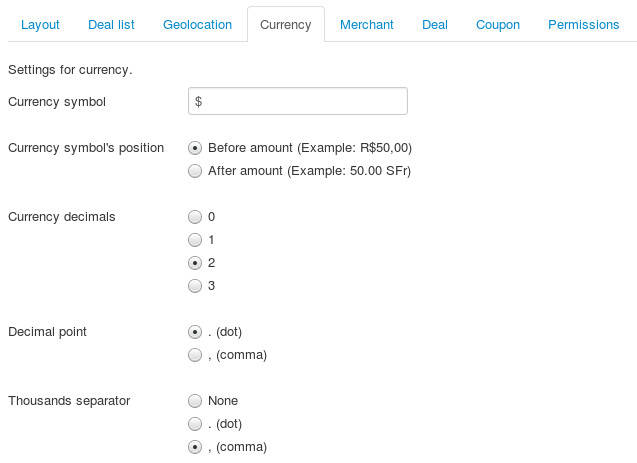
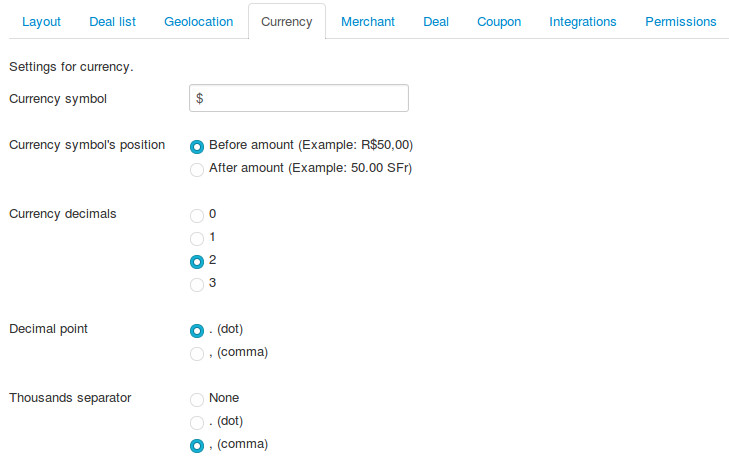
1.9.0

diff --git a/conf.py b/conf.py
@@ -51,10 +51,10 @@ copyright = u'2014-2015, CMExtension'
 # built documents.
 #
 # The short X.Y version.
-version = '1.8.1'
+version = '1.9.0'
 # The full version, including alpha/beta/rc tags.
-release = '1.8.1-stable'
-7
+release = '1.9.0-stable'
+
 # The language for content autogenerated by Sphinx. Refer to documentation
 # for a list of supported languages.
 #language = None

diff --git a/pages/configuration.rst b/pages/configuration.rst
@@ -69,7 +69,7 @@ The dashboard is displayed by default.
 
 On the toolbar there is a button "Options", you click this button to configure the component.
 
-On the configuration page, the settings are grouped into 7 tabs: Layout, Deal list, Currency Merchant, Deal, Coupon and Permissions.
+On the configuration page, the settings are grouped into 8 tabs: Layout, Deal list, Currency Merchant, Deal, Coupon, Integrations and Permissions.
 
 Layout
 ^^^^^^
@@ -98,6 +98,8 @@ Deal list
 * **Show price tag**: Show price tag at the top left corner of every deal in deal list. This price tag contains discounted price, discounted value or discount percent.
 * **Show original and discounted prices**: Show original price and discounted price of deal of it has these prices.
 * **Price tag of deals which have discounted price**: If deal has original price and discounted price, you show discounted price or discount value (how much customers save). For example, if orginal price is $100, discounted price is $40, you can show $40 (discounted price) or $60 (discount value).
+* **Show featured deals first**: Show featured deals on the top of deal list.
+* **Show ribbon for featured deals**: Show a ribbon on the top right corner of feature deals.
 
 Geolocation
 ^^^^^^^^^^^
@@ -186,6 +188,13 @@ Coupon
 * **Guest can get coupon**: Allow guests can capture coupons without registering accounts.
 * **Limit coupon quantity**: Enable this option to give administrators and merchants ability to set and change coupon quantity for every deal. If this option is disabled, coupon quantity is unlimited.
 * **Limit 1 coupon per registered user**: Enable this option if you only allow a registered user to get 1 coupon for 1 deal. Disable this option if you want to allow registered users to get unlimited coupon for every deal.
+
+Integrations
+^^^^^^^^^^^^
+
+.. image:: ../images/com_cmlivedeal_integrations.jpg
+
+* **Falang integration**: Enable this option if you use Falang.
 
 Permissions
 ^^^^^^^^^^^
